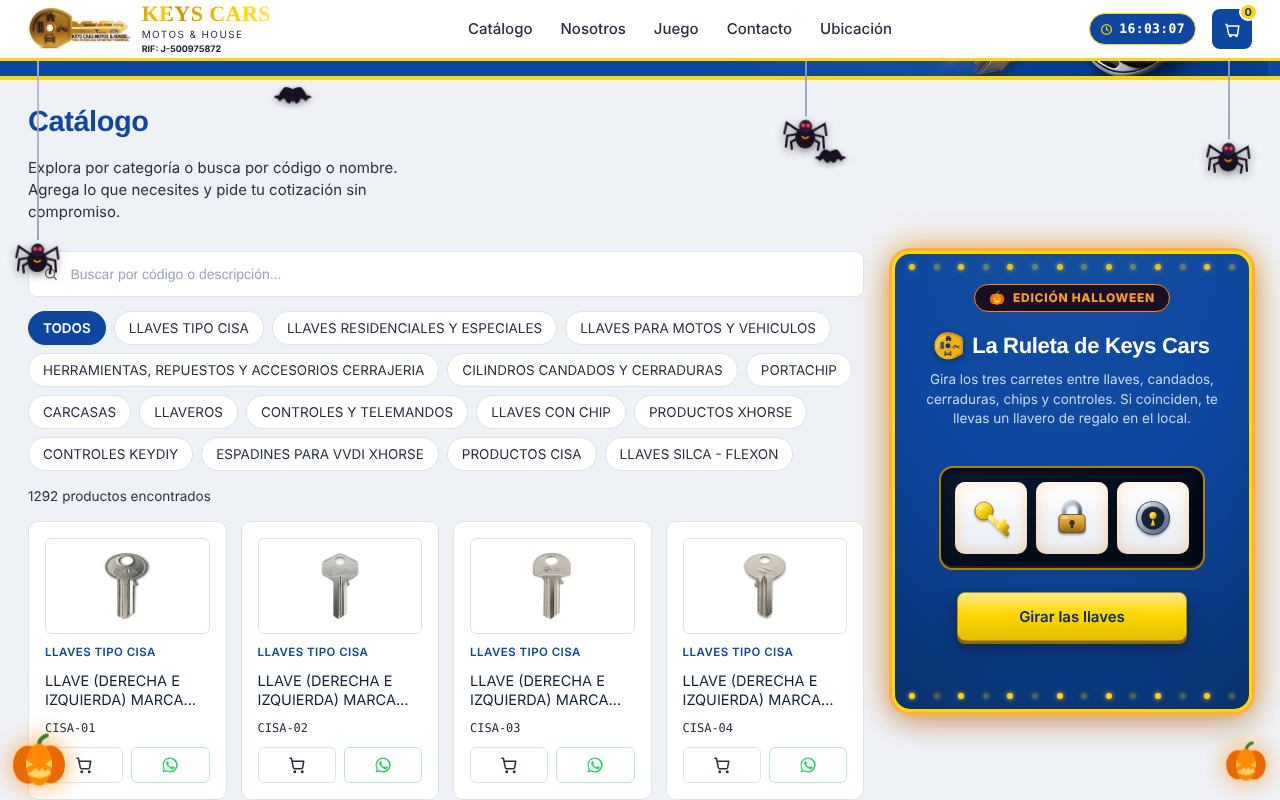
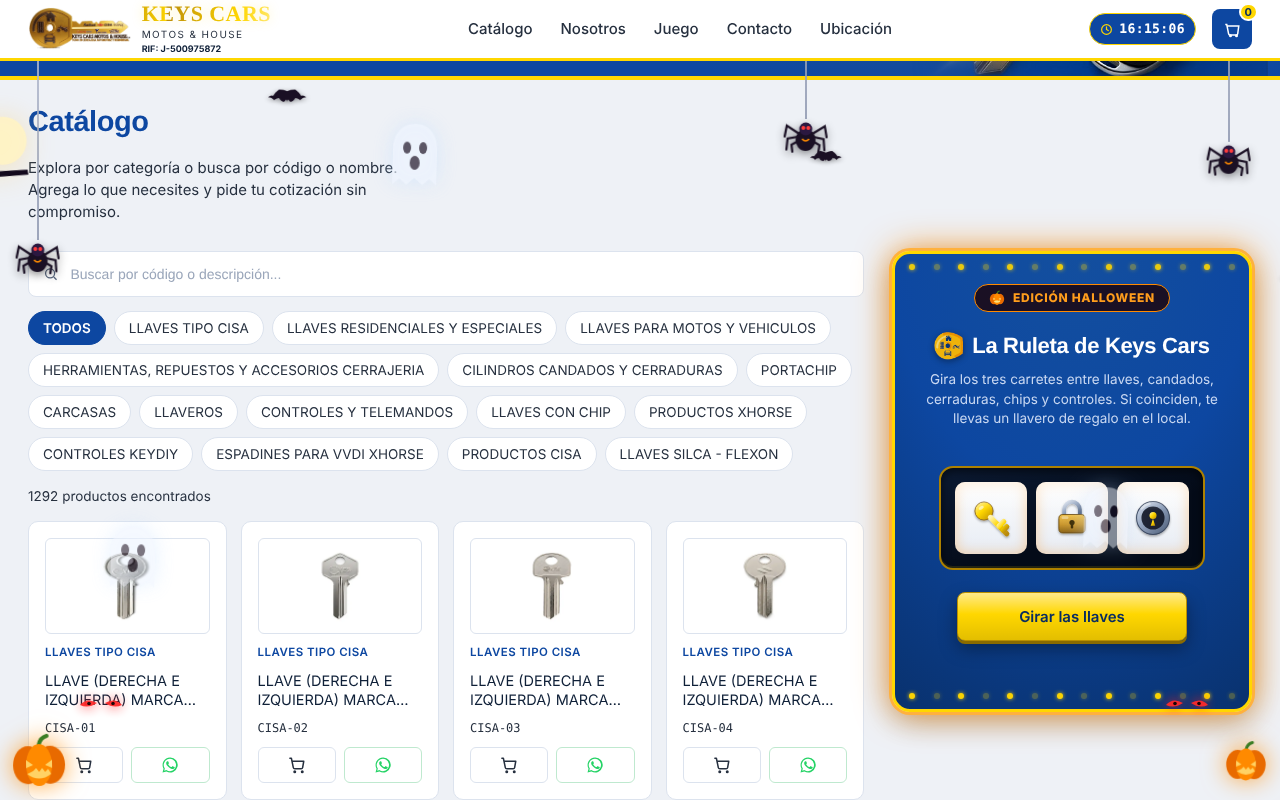
Halloween: hasta el 1 de noviembre; bruja en escoba, fantasmas, ojos rojos y relámpago
Claude-Session: https://claude.ai/code/session_01SXQ2G67n1zthcvrG685rs1

diff --git a/halloween.js b/halloween.js
@@ -1,11 +1,11 @@
 /* Tema de Halloween de Keys Cars.
-   Se activa solo del 22 de octubre al 2 de noviembre y se apaga después. Para probar: ?halloween=1 (forzar) o ?halloween=0 (apagar).
+   Se activa solo del 22 de octubre al 1 de noviembre y se apaga después. Para probar: ?halloween=1 (forzar) o ?halloween=0 (apagar).
    Es solo decoración: no recibe clics ni toca el contenido. Para quitarlo del todo: borrar este archivo y su línea <script> en index.html. */
 (function(){
   try{
     var q = new URLSearchParams(location.search).get('halloween');
     var d = new Date(), m = d.getMonth(), day = d.getDate();
-    var enFecha = (m === 9 && day >= 22) || (m === 10 && day <= 2);
+    var enFecha = (m === 9 && day >= 22) || (m === 10 && day <= 1);
     if (q === '0' || (q !== '1' && !enFecha)) return;
   }catch(e){ return; }
 
@@ -29,6 +29,22 @@
   '.hw-pumpkin .hw-glow{animation:hwGlow 1.9s ease-in-out infinite;}' +
   '@keyframes hwBob{0%,100%{transform:translateY(0) rotate(-3deg)}50%{transform:translateY(-6px) rotate(3deg)}}' +
   '@keyframes hwGlow{0%,100%{opacity:.78}45%{opacity:1}70%{opacity:.6}}' +
+  /* bruja en escoba con luna */
+  '.hw-witch{position:absolute;left:-190px;top:110px;width:150px;height:96px;opacity:0;animation:hwWitch 26s linear 3s infinite;filter:drop-shadow(0 0 14px rgba(255,200,80,.35));}' +
+  '.hw-witch svg{width:100%;height:100%;animation:hwBobW 1.6s ease-in-out infinite;}' +
+  '@keyframes hwBobW{0%,100%{transform:translateY(0) rotate(-2deg)}50%{transform:translateY(-9px) rotate(2deg)}}' +
+  '@keyframes hwWitch{0%{transform:translate(0,0);opacity:0}3%{opacity:1}30%{transform:translate(45vw,60px)}55%{transform:translate(80vw,-20px);opacity:1}62%,100%{transform:translate(calc(100vw + 260px),20px);opacity:0}}' +
+  /* fantasmas */
+  '.hw-ghost{position:absolute;bottom:-90px;width:54px;height:66px;opacity:0;animation:hwGhost var(--t,14s) ease-in-out var(--d,0s) infinite;}' +
+  '.hw-ghost svg{width:100%;height:100%;animation:hwWob 2.4s ease-in-out infinite;filter:drop-shadow(0 0 10px rgba(190,220,255,.7));}' +
+  '@keyframes hwGhost{0%{transform:translateY(0);opacity:0}12%{opacity:.8}50%{opacity:.55}85%{opacity:.8}100%{transform:translateY(-110vh);opacity:0}}' +
+  '@keyframes hwWob{0%,100%{transform:translateX(-12px) rotate(-5deg)}50%{transform:translateX(12px) rotate(5deg)}}' +
+  /* ojos rojos que miran desde la oscuridad */
+  '.hw-eyes{position:absolute;bottom:92px;width:46px;height:14px;animation:hwBlink 7s infinite;filter:drop-shadow(0 0 6px #ff1a1a);}' +
+  '@keyframes hwBlink{0%,42%,48%,100%{transform:scaleY(1);opacity:.95}45%{transform:scaleY(.08);opacity:.95}60%{opacity:0}80%{opacity:0}85%{opacity:.95}}' +
+  /* relámpago suave */
+  '.hw-flash{position:absolute;inset:0;background:radial-gradient(ellipse at 50% 0,rgba(210,225,255,.35),rgba(210,225,255,0) 65%);opacity:0;animation:hwFlash 19s linear infinite;}' +
+  '@keyframes hwFlash{0%,92%,100%{opacity:0}93%{opacity:1}94%{opacity:.1}95%{opacity:.9}97%{opacity:0}}' +
   /* telarañas en las esquinas del inicio */
   '.hw-web{position:absolute;top:0;width:120px;height:120px;opacity:.55;z-index:3;pointer-events:none;}' +
   '.hw-web.l{left:0}.hw-web.r{right:0;transform:scaleX(-1)}' +
@@ -39,8 +55,8 @@
   '.hw-badge{display:flex;align-items:center;justify-content:center;gap:8px;margin:0 auto 10px;padding:5px 14px;width:max-content;max-width:100%;border-radius:999px;background:#1a1024;color:#ff9d1c;border:1px solid #ff8a00;font:800 12px/1.2 Inter,system-ui,sans-serif;letter-spacing:.06em;text-transform:uppercase;}' +
   '.hw-badge svg{width:16px;height:16px;flex:none;}' +
   '.hw-on .reel{box-shadow:inset 0 0 14px rgba(255,138,0,.35);}' +
-  '@media(max-width:480px){.hw-web{width:84px;height:84px}.hw-pumpkin{width:46px;height:43px}.hw-pumpkin.hw-p2{width:36px;height:34px}.hw-spider.hw-s3{display:none}.hw-spider{width:36px;margin-left:-18px}.hw-spider svg{width:36px;height:29px}}' +
-  '@media(prefers-reduced-motion:reduce){.hw-layer *,.hw-on .game-panel{animation:none!important}.hw-bat{display:none}.hw-spider{transform:translateY(60px)}}';
+  '@media(max-width:480px){.hw-witch{width:104px;height:67px;top:96px}.hw-ghost{width:42px;height:52px}.hw-web{width:84px;height:84px}.hw-pumpkin{width:46px;height:43px}.hw-pumpkin.hw-p2{width:36px;height:34px}.hw-spider.hw-s3{display:none}.hw-spider{width:36px;margin-left:-18px}.hw-spider svg{width:36px;height:29px}}' +
+  '@media(prefers-reduced-motion:reduce){.hw-layer *,.hw-on .game-panel{animation:none!important}.hw-bat,.hw-witch,.hw-ghost,.hw-flash{display:none}.hw-spider{transform:translateY(60px)}}';
 
   var st = document.createElement('style'); st.textContent = css; document.head.appendChild(st);
 
@@ -49,6 +65,9 @@
   var pumpkinSvg = '<svg viewBox="0 0 58 54" aria-hidden="true"><path d="M29 11c1-5 4-8 8-9" stroke="#3b7d23" stroke-width="4" stroke-linecap="round" fill="none"/><ellipse cx="18" cy="31" rx="15" ry="19" fill="#e86a00"/><ellipse cx="40" cy="31" rx="15" ry="19" fill="#e86a00"/><ellipse cx="29" cy="31" rx="13" ry="21" fill="#ff8a00"/><g class="hw-glow" fill="#ffe27a"><path d="M16 26l7 5-7 3z"/><path d="M42 26l-7 5 7 3z"/><path d="M17 40q12 9 24 0l-3-5-3 3-3-4-3 4-3-4-3 3z"/></g></svg>';
   var webSvg = '<svg viewBox="0 0 120 120" aria-hidden="true" fill="none" stroke="#ffffff" stroke-width="1.2" stroke-linecap="round"><path d="M0 0L120 0M0 0L0 120M0 0L100 100M0 0L110 45M0 0L45 110"/><path d="M26 0Q22 22 0 26M52 0Q44 44 0 52M80 0Q64 64 0 80M108 0Q86 86 0 108"/></svg>';
 
+  var witchSvg = '<svg viewBox="0 0 150 96" aria-hidden="true"><circle cx="112" cy="30" r="24" fill="#fff3c4" opacity=".92"/><circle cx="121" cy="25" r="20" fill="#0d2f6e" opacity=".0"/><g fill="#12091c"><path d="M6 70 L138 58 L139 63 L8 77z"/><path d="M0 66 l-0 14 l14-4z"/><path d="M62 48 C60 30 66 22 74 20 L82 4 L92 24 C96 26 100 30 100 34 L84 36 C84 44 90 52 96 58 L66 62z"/><path d="M52 38 C60 34 74 34 88 36 L88 42 C74 40 60 40 52 44z"/><path d="M64 60 C52 66 40 70 24 78 L30 84 C46 80 60 78 74 70z"/></g><path d="M74 20 L82 3 L88 19z" fill="#12091c"/><rect x="73" y="19" width="16" height="4" fill="#ff8a00"/><circle cx="81" cy="31" r="2.2" fill="#9cff4a"/><path d="M72 40 q4 6 10 4" stroke="#9cff4a" stroke-width="1.5" fill="none"/></svg>';
+  var ghostSvg = '<svg viewBox="0 0 54 66" aria-hidden="true"><path d="M27 2C13 2 5 13 5 27v36l7-6 7 6 8-7 8 7 7-6 7 6V27C49 13 41 2 27 2z" fill="#eef4ff" opacity=".92"/><ellipse cx="19" cy="26" rx="4" ry="6" fill="#1a1024"/><ellipse cx="35" cy="26" rx="4" ry="6" fill="#1a1024"/><ellipse cx="27" cy="41" rx="5" ry="7" fill="#1a1024"/></svg>';
+  var eyesSvg = '<svg viewBox="0 0 46 14" aria-hidden="true"><path d="M2 8 Q9 0 19 6 Q10 12 2 8z" fill="#ff2a2a"/><path d="M44 8 Q37 0 27 6 Q36 12 44 8z" fill="#ff2a2a"/><circle cx="11" cy="6.5" r="1.8" fill="#1a0000"/><circle cx="35" cy="6.5" r="1.8" fill="#1a0000"/></svg>';
   function ready(fn){ if(document.readyState !== 'loading') fn(); else document.addEventListener('DOMContentLoaded', fn); }
   ready(function(){
     document.body.classList.add('hw-on');
@@ -61,6 +80,9 @@
       html += '<div class="hw-bat" style="top:'+b[0]+'px;--t:'+b[1]+';--d:'+b[2]+';--y2:'+b[3]+';--y3:'+b[4]+';width:'+b[5]+'px">'+batSvg+'</div>';
     });
     html += '<div class="hw-pumpkin">'+pumpkinSvg+'</div><div class="hw-pumpkin hw-p2">'+pumpkinSvg+'</div>';
+    html += '<div class="hw-flash"></div><div class="hw-witch">'+witchSvg+'</div>';
+    [[8,'15s','-2s'],[30,'19s','-9s'],[58,'17s','-13s'],[84,'21s','-5s']].forEach(function(g){ html += '<div class="hw-ghost" style="left:'+g[0]+'%;--t:'+g[1]+';--d:'+g[2]+'"> '+ghostSvg+'</div>'; });
+    html += '<div class="hw-eyes" style="left:78px;animation-delay:-2s">'+eyesSvg+'</div><div class="hw-eyes" style="right:70px;animation-delay:-5s;transform:scale(.8)">'+eyesSvg+'</div>';
     L.innerHTML = html; document.body.appendChild(L);
 
     var hero = document.querySelector('.hero');
